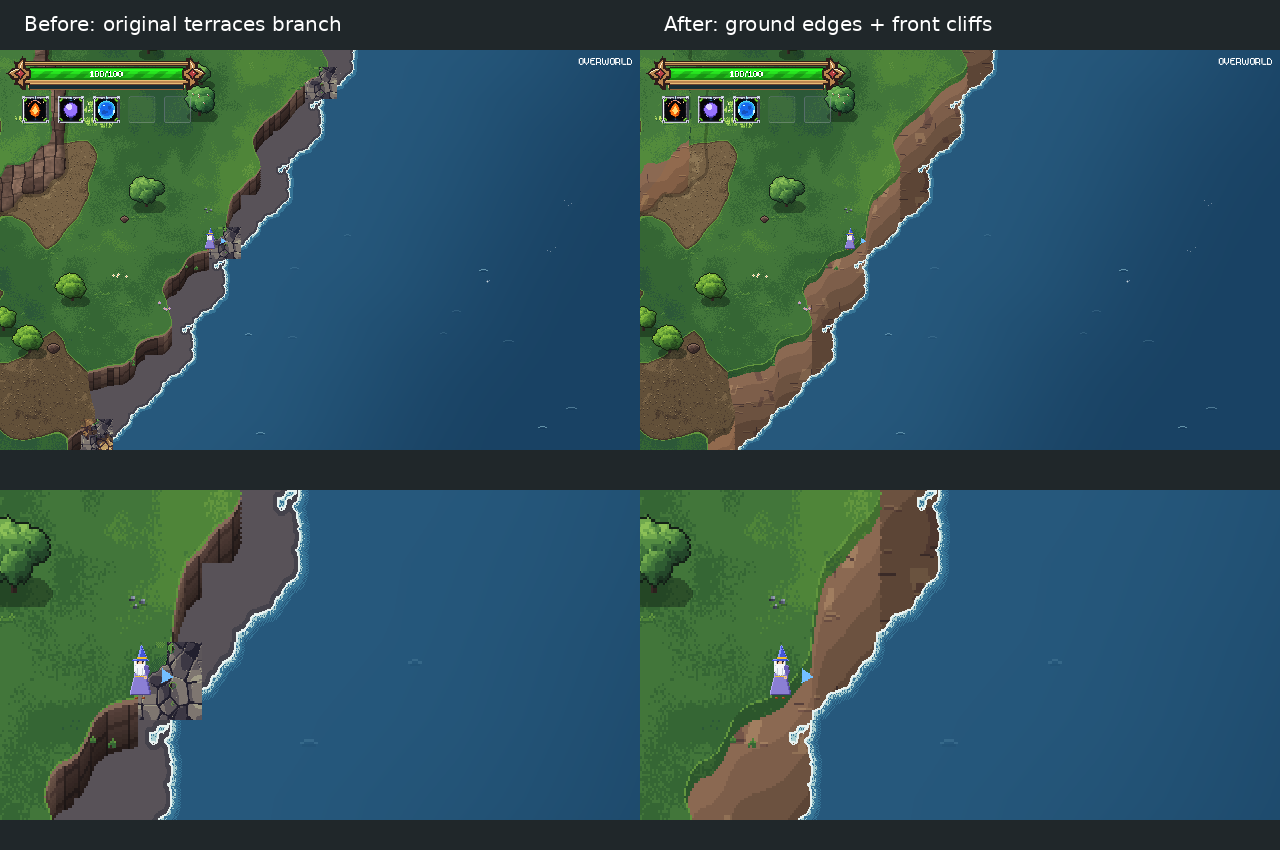
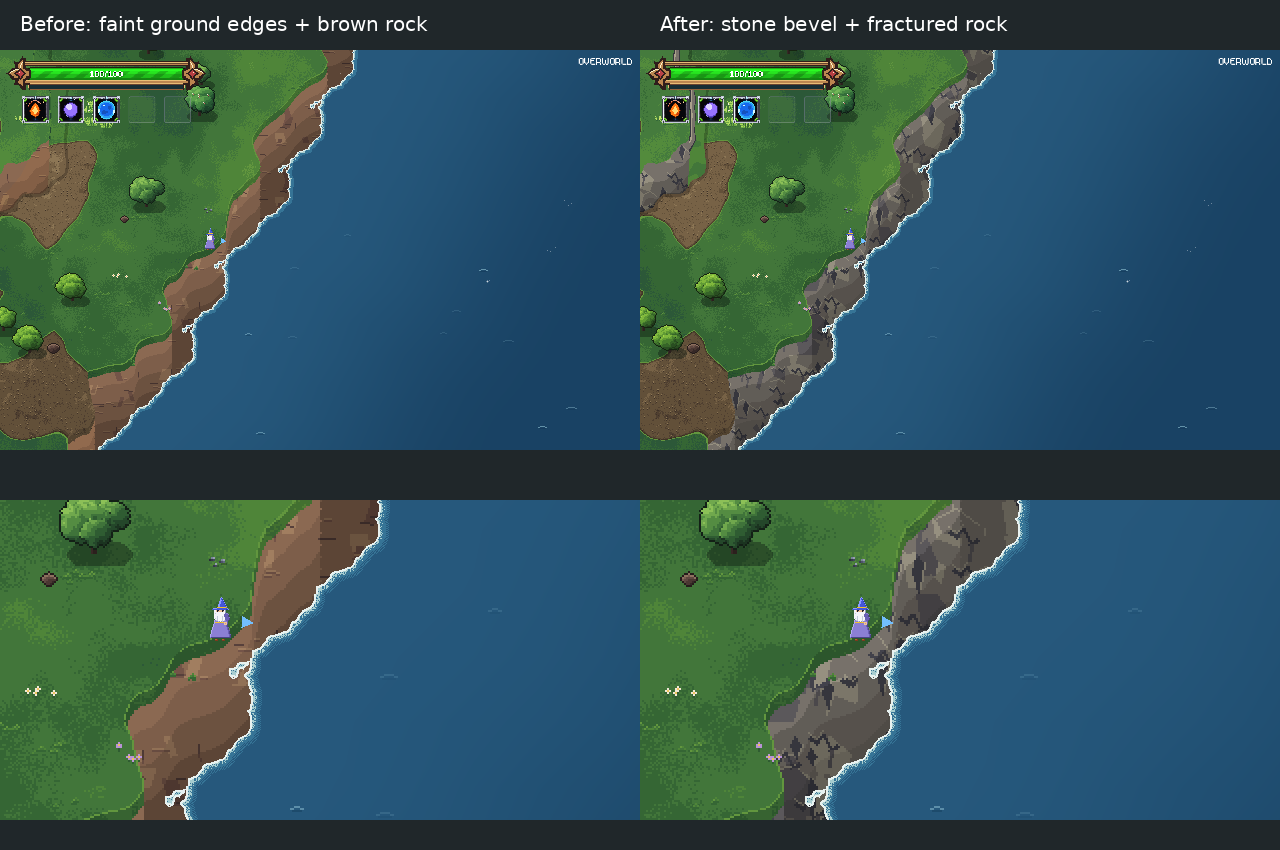
Replace dirt rims with rocky bevels and strengthen cliff fractures

Changed region(s): [[0.0, 0.0, 1.0, 0.9788], [0.0, 0.0918, 0.0625, 0.2447], [0.5, 0.1224, 0.5625, 0.2447]]

diff --git a/assets/sprites/SOURCE.md b/assets/sprites/SOURCE.md
@@ -737,3 +737,7 @@ No scene in any level/SpawnData/encounter references this group.
 ### Cliff-start ground edge overlays
 
 SpriteU PR #24 also supplies `terrace_ground_edges.png`, 1024x384 RGBA: six material rows and 16 N/E/S/W masks across (1/2/4/8). Binary transparency preserves the normal painted ground under the edge. Runtime currently samples the shared south-edge strip along its interpolated contour; other masks are source variants for further tiled use. Only the camera-facing terrace exposure receives rock. Back/side areas retain ground with a narrow cliff-start mark. No terrace data or collision changes.
+
+### Stronger rock and rocky rim pass
+
+SpriteU art/terrace-cliffs at 0f93f86: original irregular faceted rock and broken chevron/tapered fissures, warm-grey grass/dirt rock palette, nine-pixel rocky edge bevel. No dirt-colour edge variant: former dirt edge uses rock colours. Rim surface comes from nearest plateau; a dirt plateau rim uses grass rather than extending a dirt patch across the drop. Interior dirt remains unchanged. Revisited owner's image and visually studied Rocky Pines (https://grajopx.itch.io/rocky-pine-forest) and Simple Tiles (https://snaply.itch.io/environmental-tiles-pixel-art-top-down-tileset) for cap/face value separation and readable stone rims. No reference pixels copied. Still no geometry/collision change.
